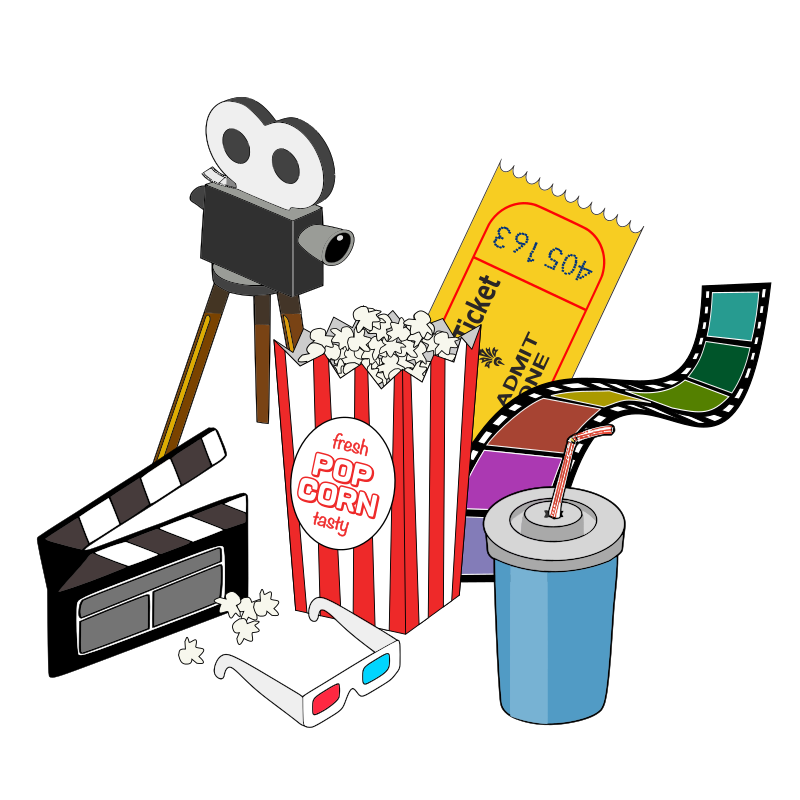
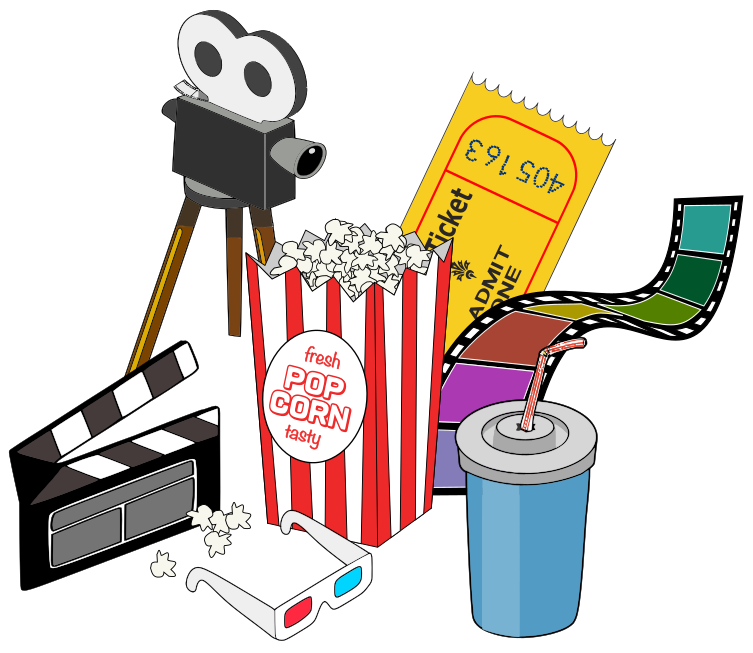
added the styling to landing

Changed region(s): [[0.0, 0.0, 1.0, 0.9801]]

diff --git a/src/index.css b/src/index.css
@@ -1,10 +1,10 @@
-@import url("https://fonts.googleapis.com/css2?family=Roboto:wght@400;500;700&display=swap");
+@import url("https://fonts.googleapis.com/css2?family=Noto+Serif:wght@300;400;500;600;700;800&display=swap");
 
 * {
   padding: 0;
   margin: 0;
   box-sizing: border-box;
-  font-family: "Roboto", sans-serif;
+  font-family: "Noto Serif", serif;
 }
 
 html {
@@ -42,7 +42,7 @@ button {
     GENERAL
 */
 
-.landing,
+#nav,
 #main,
 #search__result,
 .movie__body {
@@ -54,8 +54,8 @@ button {
   color: white;
 }
 
-.purple {
-  color: #6316ff;
+.blue {
+  color: #55aedf;
 }
 
 .btn {
@@ -92,7 +92,7 @@ nav {
   justify-content: space-between;
   align-items: center;
   width: 100%;
-  height: 75px;
+  height: 10vh;
   border: none;
 }
 
@@ -112,7 +112,7 @@ nav {
 }
 
 .company-name {
-  color: #6316ff;
+  color: #55aedf;
   font-style: italic;
 }
 
@@ -131,7 +131,7 @@ nav {
   height: 2px;
   bottom: 0;
   left: 0;
-  background-color: #6316ff;
+  background-color: #55aedf;
   transform-origin: bottom right;
   transition: transform 0.25s ease-out;
 }
@@ -151,7 +151,7 @@ nav {
 
 .nav__link--primary {
   font-size: 16px;
-  background-color: #6316ff;
+  background-color: #55aedf;
   color: #fff;
   margin: 0 auto;
   padding: 12px 24px;
@@ -163,7 +163,7 @@ nav {
   background-color: transparent;
   font-size: 32px;
   border: none;
-  color: #6316ff;
+  color: #55aedf;
   display: none;
 }
 
@@ -211,7 +211,7 @@ nav {
 }
 
 .menu__link {
-  color: #6316ff;
+  color: #55aedf;
   font-size: 32px;
 }
 
@@ -220,7 +220,7 @@ nav {
   top: 10px;
   right: 20px;
   padding: 8px;
-  color: #6316ff;
+  color: #55aedf;
 }
 
 /* 
@@ -228,9 +228,11 @@ nav {
 */
 
 #main {
-  padding: 16px;
   display: flex;
   flex-direction: column;
+  align-items: center;
+  max-height: calc(100vh - 10vh);
+  padding: 16px;
 }
 
 .header__container {
@@ -248,12 +250,12 @@ nav {
 
 .header__description {
   text-align: center;
-  padding: 32px 16px;
+  padding: 24px 16px;
 }
 
 .header__title {
   margin-bottom: 32px;
-  color: #6316ff;
+  color: #55aedf;
   font-size: 38px;
   font-weight: 600;
   animation: fade-up 650ms 200ms backwards;
@@ -262,6 +264,18 @@ nav {
 .header__subtitle {
   font-weight: 600;
   animation: fade-up 650ms 400ms backwards;
+}
+
+.landing__image__container {
+  display: flex;
+  justify-content: center;
+  height: 40vh;
+  width: 40vw;
+}
+
+.landing__image {
+  height: 100%;
+  width: 100%;
 }
 
 @keyframes fade-up {
@@ -278,7 +292,7 @@ nav {
 .search__bar__container {
   display: flex;
   justify-content: center;
-  padding: 32px 16px;
+  padding: 24px 16px;
   margin: 0 auto;
 }
 
@@ -305,12 +319,12 @@ nav {
   margin-right: 8px;
   padding: 12px 26px;
   font-size: 16px;
-  background-color: #6316ff;
+  background-color: #55aedf;
   color: #fff;
 }
 
 .btn:hover {
-  background-color: #733ddd;
+  background-color: #55aedf;
 }
 
 .btn:active {
@@ -458,8 +472,8 @@ nav {
 }
 
 .form__submit {
-  background-color: #6316ff;
-  border: 2px solid #6316ff;
+  background-color: #55aedf;
+  border: 2px solid #55aedf;
   border-radius: 9999px;
   color: #fff;
   font-weight: 500;
@@ -471,12 +485,12 @@ nav {
 }
 
 .form__submit:hover {
-  background-color: #733ddd;
+  background-color: #55aedf;
 }
 
 .form__submit:active {
-  border-color: #6316ff;
-  color: #6316ff;
+  border-color: #55aedf;
+  color: #55aedf;
 }
 
 .modal__overlay {

diff --git a/src/components/Landing.jsx b/src/components/Landing.jsx
@@ -12,14 +12,18 @@ const Landing = () => {
           </h1>
           <h2 className="header__subtitle">
             FIND WHAT TO BINCH WATCH NEXT WITH
-            <span className="purple"> CINEMATICA!</span>
+            <span className="blue"> CINEMATICA!</span>
           </h2>
         </div>
         <SearchMovie />
-        <figure className="landing__image__container">
-          <img src={landingMovieImage} alt="Landing Movie Image" />
-        </figure>
       </div>
+      <figure className="landing__image__container">
+        <img
+          src={landingMovieImage}
+          alt="Landing Movie Image"
+          className="landing__image"
+        />
+      </figure>
     </div>
   );
 };

diff --git a/src/pages/Home.jsx b/src/pages/Home.jsx
@@ -1,7 +1,6 @@
 import React from "react";
 import Footer from "../components/Footer";
 import Landing from "../components/Landing";
-import Movies from "../components/Movies";
 const Home = () => {
   return (
     <>

diff --git a/src/components/Nav.jsx b/src/components/Nav.jsx
@@ -15,7 +15,7 @@ const Nav = () => {
   }
 
   return (
-    <div className="landing">
+    <div id="nav">
       <nav>
         <figure className="logo__container">
           <Link to="/">
